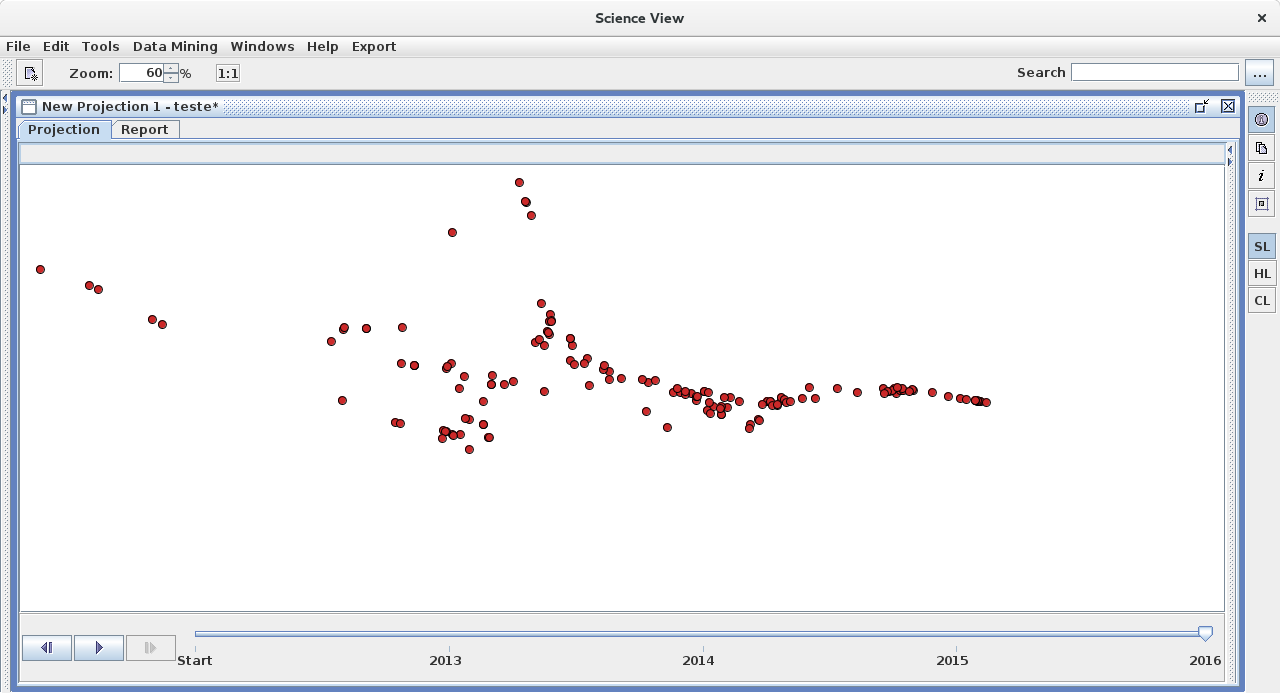
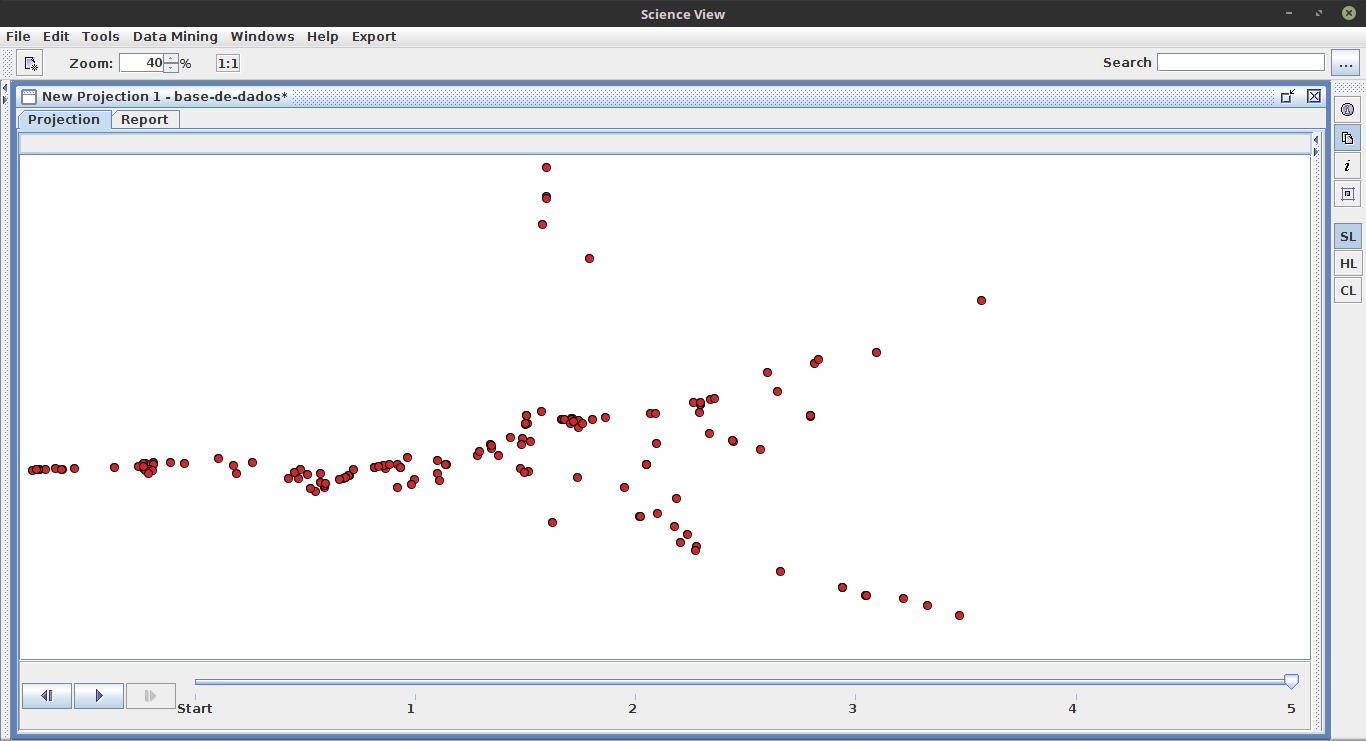
Experimento da base de dados APOO. Falta falar sobre a perservação da vizinhança

diff --git a/resultados-preliminares.tex b/resultados-preliminares.tex
@@ -15,6 +15,7 @@
 	 % TODO: mencionar que este capítulo é uma instância do método apresentado no capítulo anterior, considerando as fases XYZ. Explique em uma linha o que foi feito para cada fase.
 	 
 	\section{\foreign{Science View}}
+	\label{sec:scienceView}
 		A ferramenta \foreign{Science View} \cite{Alencar} foi desenvolvida para exibir
 		as relações entre os documentos dado um acervo de artigos científicos, utilizando
 		a \acs{T-LSP} a partir de artigos nos formatos \foreign{ISI}, \foreign{Endnote Export Format}
@@ -297,44 +298,57 @@
 	\subsection{Descrição da base}
 	% TODO: descrever base de dados: quais foram os tipos de programas, quantos foram, falar que a
 	% base foi anomizada.
-	Essa base é constituída de 152 implementações de 5 problemas distintos. O primeiro exercício
-	consiste na revisão de conceitos básicos como: estruturas de condição e laço de repetição. O
-	segundo exercício define a criação de classes com mais de um construtor, e manipulação de
-	arquivos e cadeia de caracteres. O terceiro exercício consiste na criação das classes
-	\texttt{Palavra} e \texttt{Texto}, no qual a primeira classe deve ser utilizada na segunda
-	classe, e uma classe para gerar orações gramaticais. O quarto exercício refere-se a
-	utilização de herança e polimorfismo, identificando cada palavra contida em um arquivo. E
-	o quinto exercício consiste na alteração de uma classe, implementando sobreposição de
-	operadores. Os desenvolvedores das implementações foram anonimizados, sendo representado
-	por uma sequência de números.
+		Essa base é constituída de 152 implementações de 5 problemas distintos. O primeiro exercício
+		consiste na revisão de conceitos básicos como: estruturas de condição e laço de repetição. O
+		segundo exercício define a criação de classes com mais de um construtor, e manipulação de
+		arquivos e cadeia de caracteres. O terceiro exercício consiste na criação das classes
+		\texttt{Palavra} e \texttt{Texto}, no qual a primeira classe deve ser utilizada na segunda
+		classe, e uma classe para gerar orações gramaticais. O quarto exercício refere-se a
+		utilização de herança e polimorfismo, identificando cada palavra contida em um arquivo. E
+		o quinto exercício consiste na alteração de uma classe, implementando sobreposição de
+		operadores. Os desenvolvedores das implementações foram anonimizados, sendo representado
+		por uma sequência de números.
 	
 	\subsection{Avaliação da projeção com preservação de vizinhança}
-	
+	% TODO recomendo a colocação de uma imagem da curva de neihborhood  preservation para uma de suas projeções na seção resultados.
+	A \foreign{Science View} (\ref{sec:scienceView}) utiliza a preservação da vizinhança
+	(\ref{subsubsec:vizinhanca}) para verificar a qualidade das projeções
 	
 	\subsection{Avaliação qualitativa da visualização}
 	% TODO: relatar o estudo: treinamento, instruções, questionário, resultados
-	Para obter resultados qualitativos dessa pesquisa, realizamos um experimento com
-	as seguintes etapas: treinamento, utilização e questionário. O treinamento foi
-	realizado na forma de tutorial com a apresentação da ferramenta. Dessa forma,
-	foi apresentado todos os passos para realizar uma nova projeção. Desde a inserção
-	de uma nova coleção no banco de dados até a visualização das implementações. Em
-	seguida, foi apresentado as funcionalidades da ferramenta para visualizar os
-	agrupamentos formados ao longo das projeções, selecionar um determinado conjunto
-	de implementações, identificar as características semelhantes de tais grupos e
-	abrir mais de uma implementação simultaneamente.
-	
-	Para iniciarmos a etapa da utilização da ferramenta, foi pedido para que os
-	participantes encerrassem o funcionamento da \foreign{Science View} e a
-	executassem com a criação da base de dados. Os participantes utilizaram a
-	ferramenta sem ajuda no que já tinha sido apresentado e o avaliaram por meio
-	de um questionário.
-	
-	O questionário (\cref{apendice:questionario}) apresenta questões objetivas e
-	dissertativas para avaliar a qualidade do treinamento e da ferramenta. Enquanto
-	as questões objetivas visavam a qualidade do treinamento, da ferramenta e se
-	é possível utilizá-la para auxiliar na correção, as questões dissertativas
-	visam a encontrar lacunas observadas pelo participante para uma possível 
-	atualização da ferramenta.
+		Para obter resultados qualitativos dessa pesquisa, realizamos um experimento com
+		as seguintes etapas: treinamento, utilização e questionário. O treinamento foi
+		realizado na forma de tutorial com a apresentação da ferramenta. Dessa forma,
+		foi apresentado todos os passos para realizar uma nova projeção. Desde a inserção
+		de uma nova coleção no banco de dados até a visualização das implementações. Em
+		seguida, foi apresentado as funcionalidades da ferramenta para visualizar os
+		agrupamentos formados ao longo das projeções, selecionar um determinado conjunto
+		de implementações, identificar as características semelhantes de tais grupos e
+		abrir mais de uma implementação simultaneamente.
+		
+		Para iniciarmos a etapa da utilização da ferramenta, foi pedido para que os
+		participantes encerrassem o funcionamento da \foreign{Science View} e a
+		executassem com a criação da base de dados. Os participantes utilizaram a
+		ferramenta sem ajuda no que já tinha sido apresentado e o avaliaram por meio
+		de um questionário.
+		
+		O questionário (\cref{apendice:questionario}) apresenta questões objetivas e
+		dissertativas para avaliar a qualidade do treinamento e da ferramenta. Enquanto
+		as questões objetivas visavam a qualidade do treinamento, da ferramenta e se
+		é possível utilizá-la para auxiliar na correção, as questões dissertativas
+		visam a encontrar lacunas observadas pelo participante para uma possível 
+		atualização da ferramenta.
+		
+		A \cref{fig:projecaoFinal} apresenta a visualização dos agrupamentos das 152
+		implementações contidas na base de dados. Isso foi possível após a adaptação da
+		ferramenta para leitura de arquivos no formato \texttt{CSV}. Cada ponto da
+		visualização é referente a um código-fonte. Ao clicar em um dos pontos, a
+		\cref{fig:codigo1} mostra a exibição da sua implementação e as características
+		extraídas das ferramentas para aquele código-fonte. Também é possível ordenar
+		as colunas de características \foreign{Quantity} e \foreign{Normalized} em
+		ordem  crescente ou decrescente para visualizar as características que mais
+		ocorreram. Por padrão, a tabela é apresentado ordenada de forma descrescente
+		pela coluna \foreign{Normalized}.
 	
 		\begin{figure}[h]
 			\centering
@@ -344,20 +358,11 @@
 			\label{fig:projecaoFinal}
 		\end{figure}
 		
-		A \cref{fig:projecaoFinal} apresenta a visualização dos agrupamentos das 152
-		implementações contidas na base de dados. Isso foi possível após a adaptação da
-		ferramenta para leitura de arquivos no formato \texttt{CSV}. Cada ponto da
-		visualização é referente a um código-fonte. Ao clicar em um dos pontos, a
-		\cref{fig:codigo1} mostra a exibição da sua implementação e
-		as características extraídas das ferramentas para aquele código-fonte. Também
-		é possível ordenar a coluna de características \foreign{Quantity} em ordem
-		decrescente para visualizar as características que mais ocorreram.
-		
 		As implementações das \cref{fig:codigo1} e \cref{fig:codigo2} foram consideradas
 		semelhantes, devido aos seus respectivos pontos estarem próximos no mapa de
-		projeção. Ao ordenarmos a coluna \foreign{Quantity} é possível notar que há
-		diversas semelhanças nos tipos das características extraídas e erros que
-		ocorreram, além da quantidade dessas características.
+		projeção. É possível notar que há diversas semelhanças nos tipos das características
+		extraídas e erros que ocorreram pela coluna \foreign{Normalized}, além da quantidade
+		dessas características apresentadas na coluna \foreign{Quantity}.
 		
 		\begin{figure}[h]
 			\centering
@@ -374,9 +379,6 @@
 			{Representação parcial da interface que apresenta o código considerado semelhante ao da \cref{fig:codigo1} \cite{Alencar-etal:2012}}
 			\label{fig:codigo2}
 		\end{figure}
-
-
-	% TODO recomendo a colocação de uma imagem da curva de neihborhood  preservation para uma de suas projeções na seção resultados.
 	
 	
 	\section{Projeção e visualização de MIT 6.00.1x}	
